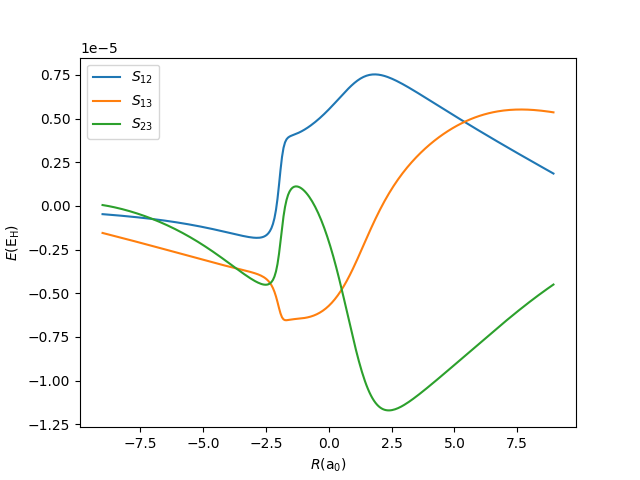
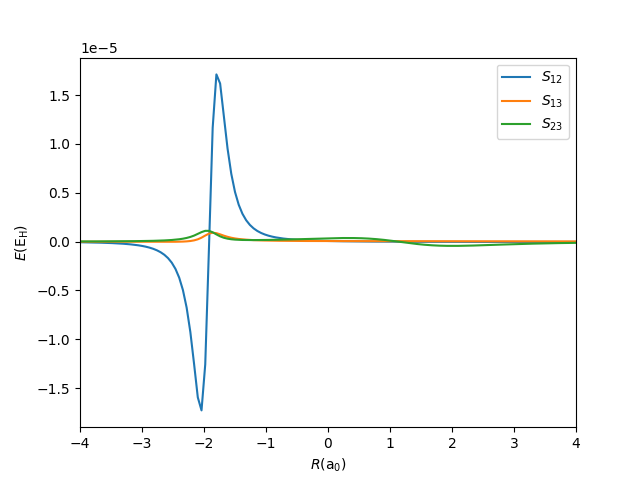
Fixed (?) NACs

diff --git a/bopes.py b/bopes.py
@@ -75,19 +75,23 @@ def hamiltonian(dr,Nr,r_array,R):
     H += SM_potential(r_array,R)*np.eye(Nr)
     
     #Diagonal
-    H += (-49./18.)*-np.eye(Nr)/(2.*dr**2)
+    L += -(-205./72.)*np.eye(N)/(2*dr**2)
 
     #First off diagonal
-    H += (3./2.)*-np.eye(Nr,k=1)/(2.*dr**2)
-    H += (3./2.)*-np.eye(Nr,k=-1)/(2.*dr**2)
+    L += -(8./5.)*np.eye(N,k=1)/(2*dr**2)
+    L += -(8./5.)*np.eye(N,k=-1)/(2*dr**2)
 
     #Second off diagonal
-    H += (-3./20.)*-np.eye(Nr,k=2)/(2.*dr**2)
-    H += (-3./20.)*-np.eye(Nr,k=-2)/(2.*dr**2)
+    L += -(-1./5.)*np.eye(N,k=2)/(2*dr**2)
+    L += -(-1./5.)*np.eye(N,k=-2)/(2*dr**2)
 
     #Third off diagonal
-    H += (1./90.)*-np.eye(Nr,k=3)/(2.*dr**2)
-    H += (1./90.)*-np.eye(Nr,k=-3)/(2.*dr**2)
+    L += -(8./315.)*np.eye(N,k=3)/(2*dr**2)
+    L += -(8./315.)*np.eye(N,k=-3)/(2*dr**2)
+
+    #Fourth off diagonal
+    L += -(-1./560.)*np.eye(N,k=4)/(2*dr**2)
+    L += -(-1./560.)*np.eye(N,k=-4)/(2*dr**2)
     return H
 
 #Generation of the BOPEs
@@ -173,17 +177,13 @@ def get_nonadiabatic_couplings(NR,dr,N_states,eigenstates,M=1836.152673):
     """
     S = np.zeros([NR,N_states,N_states])
 
-    for iR in range(0,NR):
+    for iR in range(1,NR-1):
         for i in range(0,N_states):
             for j in range(i,N_states):
-                phi_plus = np.roll(eigenstates[iR,:,i],1)
-                phi_plus[-1] = 0.
-                phi_minus = np.roll(eigenstates[iR,:,i],-1)
-                phi_minus[0] = 0.
 
                 #Apply laplacian and integrate (assuming phi=0. at the edges)
                 S[iR,i,j] = dr*np.sum(eigenstates[iR,:,j]*(1./M)\
-                    *((eigenstates[iR,:,i] - 0.5*phi_plus - 0.5*phi_minus)/dr**2))
+                    *((eigenstates[iR,:,i] - 0.5*eigenstates[iR-1,:,i] - 0.5*eigenstates[iR+1,:,i])/dr**2))
                 
                 S[iR,j,i] = S[iR,i,j]
 
@@ -194,14 +194,26 @@ estates = np.load("eigenstates.npy")
 S = get_nonadiabatic_couplings(NR,dr,N_states,estates)
 
 ## Plotting the non-adiabatic coupling factors for each state
-
-plt.plot(R_array,S[:,0,0],label="ground state")
-plt.plot(R_array,S[:,1,1],label="first excited state")
-plt.plot(R_array,S[:,2,2],label="second excited state")
+plt.figure()
+plt.xlim([-4,4])
+plt.plot(R_array,S[:,0,0],label=r"$S_{11}$")
+plt.plot(R_array,S[:,1,1],label=r"$S_{22}$")
+plt.plot(R_array,S[:,2,2],label=r"$S_{33}$")
 plt.legend()
 plt.xlabel(r"$R (\rm a_0)$")
-plt.ylabel(r"energy [a.u.]")
-plt.savefig("pics/non_adiabatic_coupling.png")
+plt.ylabel(r"$E (\rm E_H)$")
+plt.savefig("pics/non_adiabatic_coupling_diag.png")
+plt.close()
+
+plt.figure()
+plt.xlim([-4,4])
+plt.plot(R_array,S[:,0,1],label=r"$S_{12}$")
+plt.plot(R_array,S[:,0,2],label=r"$S_{13}$")
+plt.plot(R_array,S[:,1,2],label=r"$S_{23}$")
+plt.legend()
+plt.xlabel(r"$R (\rm a_0)$")
+plt.ylabel(r"$E (\rm E_H)$")
+plt.savefig("pics/non_adiabatic_coupling_off.png")
 plt.close()
 
 with open("non_adiabatic_coupling.npy","wb") as f:

diff --git a/simulation.py b/simulation.py
@@ -46,16 +46,6 @@ if __name__== '__main__':
     print("Deco. dynamics pops of initial wave:\n",obv.get_decoherence_dynamics(NR,Nr,dR,dr,N_states,eigenstates,wave))
 
     plt.figure()
-    plt.plot(R_array,S[:,0,1],label=r"$S_{12}$")
-    plt.plot(R_array,S[:,0,2],label=r"$S_{13}$")
-    plt.plot(R_array,S[:,1,2],label=r"$S_{23}$")
-    plt.legend()
-    plt.xlabel(r"$R (\rm a_0)$")
-    plt.ylabel(r"$E (\rm E_H)$")
-    plt.savefig("pics/non_adiabatic_coupling_off.png")
-    plt.close()
-
-    plt.figure()
     plt.xlabel(r"$R (\rm a_0)$")
     plt.ylabel(r"$\rho_N (R)$")
     plt.xlim([-10,10])
